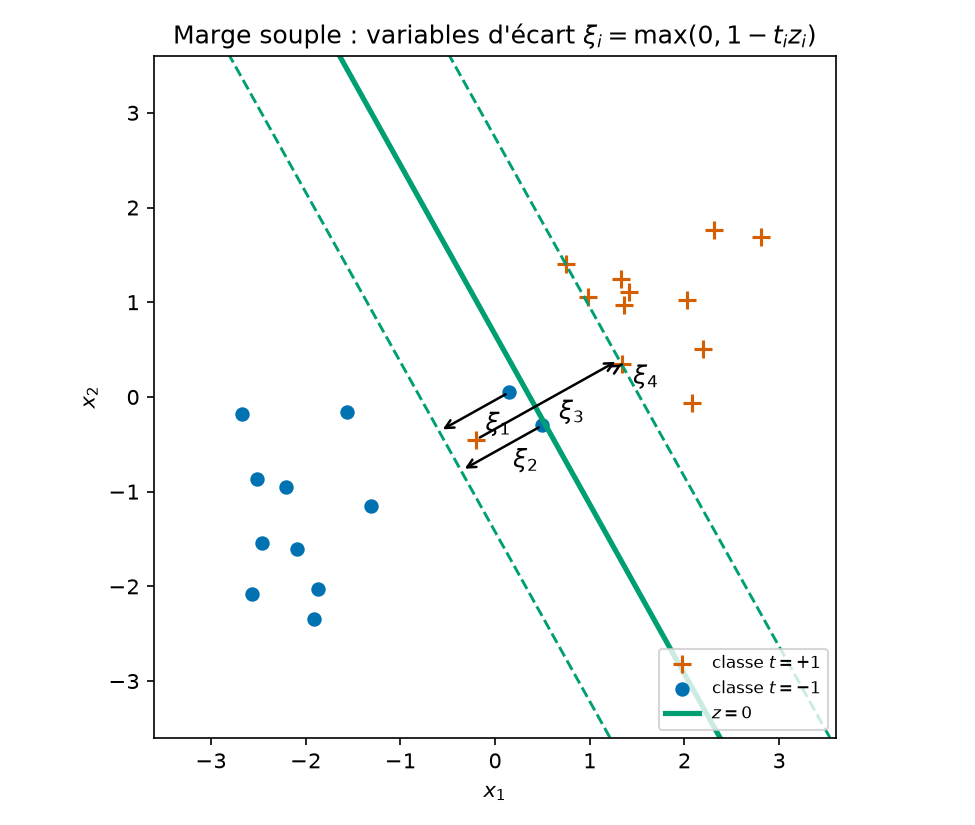
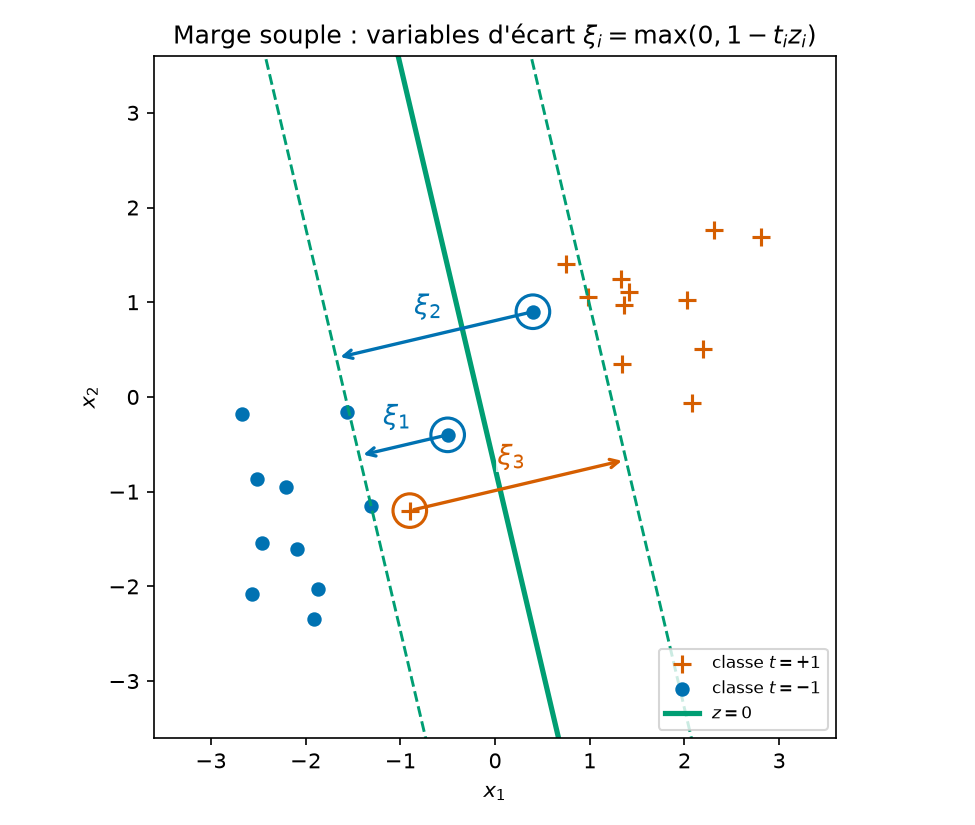
cours(svm): figure marge souple lisible (xi non ambigus), nettoyage script

diff --git a/machine_learning/scripts/figures_svm.py b/machine_learning/scripts/figures_svm.py
@@ -64,10 +64,8 @@ def fig_separateurs(X, t, w, b):
     nuage(ax, X, t)
     xs = np.linspace(-3.6, 3.6, 2)
     # droite proche de la max-marge, tournee/decalee ; on garde celles qui separent
-    z = X @ w + b
-    gp, gn = z[t > 0].min(), z[t < 0].max()  # pas de classe + / - le plus proche
     sep = []
-    for ang, shift in [(0.35, 0.0), (-0.35, 0.0)]:
+    for ang in (0.35, -0.35):
         c, s = np.cos(ang), np.sin(ang)
         R = np.array([[c, -s], [s, c]])
         w2 = R @ w
@@ -110,8 +108,9 @@ def fig_marge(X, t, w, b):
     x0 = -b * w / n**2  # point de z=0 le plus proche de l'origine
     # largeur 2/||w|| : fleche entre z=-1 et z=+1, decalee le long de la droite
     d = np.array([-u[1], u[0]])
-    base = x0 + 1.3 * d
+    base = x0 + 0.5 * d
     p1, p2 = base - u / n, base + u / n
+    p2 = p2 - 0.0 * u
     ax.annotate("", xy=p2, xytext=p1,
                 arrowprops=dict(arrowstyle="<->", color="k", lw=1.3))
     ax.text(*(base + 0.25 * d), "$2/\\|w\\|$", fontsize=12,
@@ -124,7 +123,7 @@ def fig_marge(X, t, w, b):
     ax.text(*(x0 + 2.9 * d + 1.3 * u + 0.15 * u), "$z=+1$", color=C_SVM, ha="left")
     ax.text(*(x0 + 2.9 * d - 1.3 * u - 0.15 * u), "$z=-1$", color=C_SVM, ha="right")
     style(ax)
-    ax.set_title("Marge maximale : largeur $2/\\|w\\|$ ")
+    ax.set_title("Marge maximale : largeur $2/\\|w\\|$")
     ax.legend(loc="lower right", fontsize=8)
     fig.tight_layout()
     fig.savefig(ASSETS / "05-svm-marge.png", dpi=150)
@@ -133,11 +132,12 @@ def fig_marge(X, t, w, b):
 
 def fig_marge_souple():
     X, t = donnees_separables(seed=5, n=12)
-    # 3 points "fautifs" : un dans la marge, un a la limite, un du mauvais cote
+    # 3 points fautifs : (A) classe - dans la marge mais bien classe,
+    # (B) classe + du mauvais cote, (C) classe - du mauvais cote
     X = X.copy()
-    X[3] = [0.15, 0.05]       # classe - : dans la marge, bon cote ou presque
-    X[15] = [-0.2, -0.45]     # classe + : du mauvais cote
-    X[8] = [0.5, -0.3]        # classe - : franchement du mauvais cote
+    X[3] = [-0.5, -0.4]       # A : classe -, entre z=-1 et z=0
+    X[15] = [-0.9, -1.2]      # B : classe +, franchement cote z<0
+    X[8] = [0.4, 0.9]         # C : classe -, franchement cote z>0
     w, b = svm_hinge(X, t, lam=0.02, lr=0.1, epochs=20000)
     fig, ax = plt.subplots(figsize=(6.5, 5.5))
     nuage(ax, X, t)
@@ -148,16 +148,19 @@ def fig_marge_souple():
     z = X @ w + b
     xi = np.maximum(0, 1 - t * z)
     n2 = w @ w
-    k = 0
-    for i in np.where(xi > 1e-6)[0]:
+    d = np.array([-w[1], w[0]]) / np.sqrt(n2)
+    viol = np.where(xi > 0.2)[0]
+    for k, i in enumerate(viol):
+        col = C_POS if t[i] > 0 else C_NEG
         # projection sur la droite t z = 1 : distance xi/||w||
         proj = X[i] + (xi[i] * t[i] / n2) * w
+        ax.scatter(*X[i], s=260, facecolors="none", edgecolors=col, lw=1.5)
         ax.annotate("", xy=proj, xytext=X[i],
-                    arrowprops=dict(arrowstyle="->", color="k", lw=1.2))
+                    arrowprops=dict(arrowstyle="->", color=col, lw=1.6))
         mid = (X[i] + proj) / 2
-        ax.text(*(mid + np.array([0.12, -0.2])), f"$\\xi_{{{k + 1}}}$",
-                fontsize=12)
-        k += 1
+        ax.text(*(mid + 0.3 * d), f"$\\xi_{{{k + 1}}}$", fontsize=13,
+                color=col, ha="center", va="center",
+                bbox=dict(fc="white", ec="none", pad=0.5, alpha=0.8))
     style(ax)
     ax.set_title("Marge souple : variables d'écart $\\xi_i = \\max(0, 1-t_iz_i)$")
     ax.legend(loc="lower right", fontsize=8)
